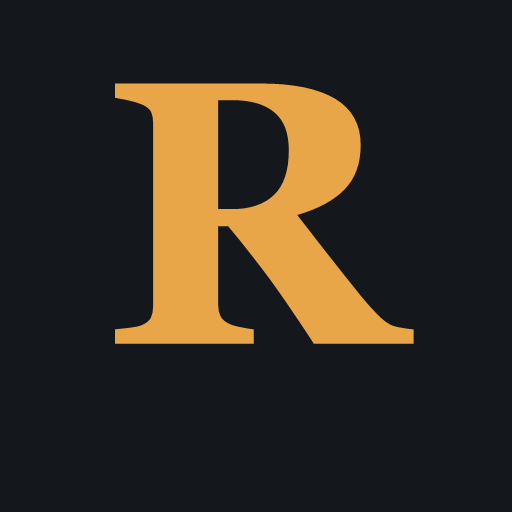
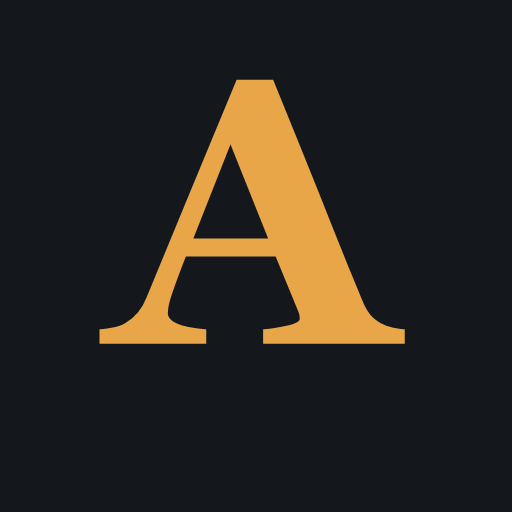
Rebrand from Recall to Afterword
Renamed the product throughout the site (masthead, page titles,
onboarding copy, login/settings headings, export filenames, digest
email sender name), the manifest, and the README, plus regenerated
the app icons with an "A" instead of "R". Domain (myrecallapp.com)
stays as-is.

Prompted by discovering an existing product (getrecall.ai) in the
exact same niche under the name "Recall" — Afterword came back
clean in a search for direct competitors using the name.

Changed region(s): [[0.1875, 0.1562, 0.7188, 0.6875], [0.75, 0.625, 0.8125, 0.6875], [0.7188, 0.5938, 0.75, 0.625]]

diff --git a/app/app/page.tsx b/app/app/page.tsx
@@ -305,7 +305,7 @@ export default function Home() {
   }
 
   function exportLibrary() {
-    const lines: string[] = [`# Recall export`, `Exported ${new Date().toLocaleString()}`, ''];
+    const lines: string[] = [`# Afterword export`, `Exported ${new Date().toLocaleString()}`, ''];
     entries.forEach((entry) => {
       const entryIdeas = ideas.filter((i) => i.entry_id === entry.id);
       if (entryIdeas.length === 0 && !entry.summary) return;
@@ -314,7 +314,7 @@ export default function Home() {
       entryIdeas.forEach((idea) => lines.push(`- ${idea.text}`));
       lines.push('');
     });
-    downloadMarkdown(`recall-export-${new Date().toISOString().slice(0, 10)}.md`, lines);
+    downloadMarkdown(`afterword-export-${new Date().toISOString().slice(0, 10)}.md`, lines);
   }
 
   function exportEntry(entry: Entry) {
@@ -375,7 +375,7 @@ export default function Home() {
     <div className="shell">
       <div className="masthead">
         <div className="brand">
-          <span className="brand-mark">Recall</span>
+          <span className="brand-mark">Afterword</span>
           <span className="brand-tag">READING MEMORY LOG</span>
         </div>
         <div style={{ display: 'flex', gap: 8 }}>
@@ -447,9 +447,9 @@ export default function Home() {
         <section className="view active">
           {dataLoaded && entries.length === 0 && (
             <div className="onboarding-card">
-              <div className="onboarding-title">Welcome to Recall</div>
+              <div className="onboarding-title">Welcome to Afterword</div>
               <div className="onboarding-body">
-                Paste something you read below, click "Extract ideas," and Recall pulls out
+                Paste something you read below, click "Extract ideas," and Afterword pulls out
                 the key points worth remembering. Save them, and they'll come back to you
                 later in the Review tab on a spaced schedule — so you actually remember them,
                 instead of forgetting like most highlights do.
@@ -478,7 +478,7 @@ export default function Home() {
           <div className="field">
             <label>Paste what you read, or tell it in your own words</label>
             <textarea value={content} onChange={(e) => setContent(e.target.value)} />
-            <div className="hint">Recall reads this and pulls out the ideas worth remembering.</div>
+            <div className="hint">Afterword reads this and pulls out the ideas worth remembering.</div>
           </div>
           <div style={{ display: 'flex', gap: 10 }}>
             <button className="btn" onClick={extractIdeas} disabled={status.kind === 'loading'}>

diff --git a/app/page.tsx b/app/page.tsx
@@ -21,12 +21,12 @@ export default function LandingPage() {
     <div className="landing-shell">
       <div className="landing-hero">
         <div className="brand">
-          <span className="brand-mark">Recall</span>
+          <span className="brand-mark">Afterword</span>
           <span className="brand-tag">READING MEMORY LOG</span>
         </div>
-        <h1 className="landing-headline">You forget most of what you read. Recall fixes that.</h1>
+        <h1 className="landing-headline">You forget most of what you read. Afterword fixes that.</h1>
         <p className="landing-sub">
-          Paste in what you're reading — a book, an article, a paper — and Recall pulls out
+          Paste in what you're reading — a book, an article, a paper — and Afterword pulls out
           the ideas worth remembering. Then it brings them back to you on a spaced schedule,
           right when you're about to forget, so they actually stick.
         </p>
@@ -40,7 +40,7 @@ export default function LandingPage() {
         <div className="landing-feature">
           <div className="landing-feature-title">Capture</div>
           <div className="landing-feature-body">
-            Paste in text from anything you're reading. Recall reads it and extracts the ideas
+            Paste in text from anything you're reading. Afterword reads it and extracts the ideas
             actually worth holding onto.
           </div>
         </div>

diff --git a/app/settings/page.tsx b/app/settings/page.tsx
@@ -104,7 +104,7 @@ export default function SettingsPage() {
     <div className="shell">
       <div className="masthead">
         <div className="brand">
-          <span className="brand-mark">Recall</span>
+          <span className="brand-mark">Afterword</span>
           <span className="brand-tag">SETTINGS</span>
         </div>
         <button className="btn-ghost" onClick={() => router.push('/app')}>
@@ -117,7 +117,7 @@ export default function SettingsPage() {
           <div className="field">
             <label>Subscription</label>
             <div className="hint" style={{ marginBottom: 10 }}>
-              Your Recall subscription is active.
+              Your Afterword subscription is active.
             </div>
             <button className="btn-ghost" onClick={manageSubscription} disabled={openingPortal}>
               {openingPortal ? 'Opening…' : 'Manage subscription'}

diff --git a/app/api/cron/digest/route.ts b/app/api/cron/digest/route.ts
@@ -45,7 +45,7 @@ export async function GET(req: NextRequest) {
     if (!email) continue;
 
     await getResend().emails.send({
-      from: process.env.RESEND_FROM_EMAIL || 'Recall <onboarding@resend.dev>',
+      from: process.env.RESEND_FROM_EMAIL || 'Afterword <onboarding@resend.dev>',
       to: email,
       subject: `${ideas.length} idea${ideas.length === 1 ? '' : 's'} due for review`,
       html: digestEmailHtml(ideas, appUrl),

diff --git a/app/login/page.tsx b/app/login/page.tsx
@@ -21,7 +21,7 @@ export default function LoginPage() {
 
   return (
     <div style={{ maxWidth: 380, margin: '80px auto', padding: '0 20px', fontFamily: 'sans-serif' }}>
-      <h1 style={{ fontSize: 22, marginBottom: 20 }}>Sign in to Recall</h1>
+      <h1 style={{ fontSize: 22, marginBottom: 20 }}>Sign in to Afterword</h1>
       {sent ? (
         <p>Check your email — we sent a sign-in link to {email}.</p>
       ) : (

diff --git a/app/layout.tsx b/app/layout.tsx
@@ -1,7 +1,7 @@
 import './globals.css';
 
 export const metadata = {
-  title: 'Recall',
+  title: 'Afterword',
   description: 'Remember what you read.',
   manifest: '/manifest.json',
   icons: {
@@ -10,7 +10,7 @@ export const metadata = {
   },
   appleWebApp: {
     capable: true,
-    title: 'Recall',
+    title: 'Afterword',
     statusBarStyle: 'black-translucent',
   },
   themeColor: '#14171c',

diff --git a/README.md b/README.md
@@ -1,6 +1,6 @@
-# Recall — real app scaffold
+# Afterword — real app scaffold
 
-This is the "own its own page" version of the Recall prototype: a Next.js app
+This is the "own its own page" version of the Afterword (formerly Recall) prototype: a Next.js app
 with a real database, real auth, and a backend that keeps your Anthropic API
 key private. It's a starting point, not a finished product — expect to tweak
 things as you go, ideally with Claude Code doing the heavy lifting from here.
